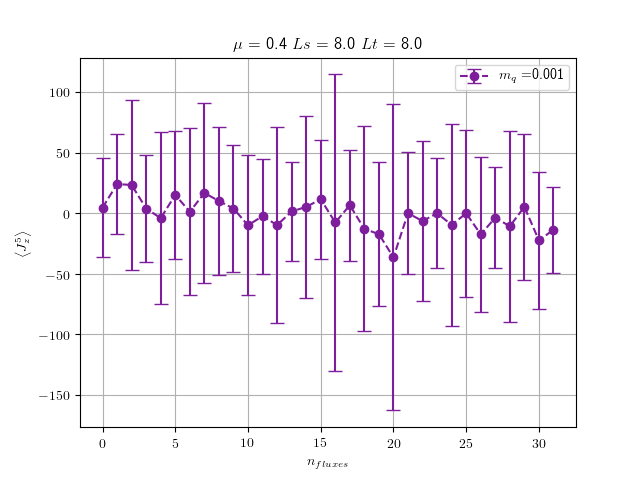
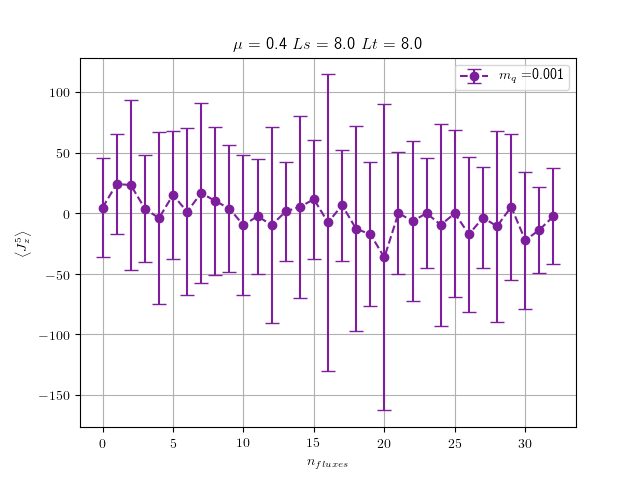
add results

diff --git a/scriptsandconstants/sigleAxialCurrentPlot.py b/scriptsandconstants/sigleAxialCurrentPlot.py
@@ -18,7 +18,7 @@ Ls, Lt, mu, ma, nfluxes, AxialCurrent, AxialCurrentErr = np.loadtxt(path.join(in
 
 ax.errorbar(nfluxes*2, AxialCurrent, yerr=AxialCurrentErr, 
 		fmt='o', label=(r'$z$'), ls='--', marker='o', capsize=5, capthick=1, ecolor=colors[5], color=colors[5])
-l = mlines.Line2D([0,nfluxes[-2]], [0,(nfluxes[-2]) * mu[0] * 3 * Lt[0] / (3.141593 * Lt[0]**2 )], color=colors[5])
+#l = mlines.Line2D([0,nfluxes[-1]*2], [0,(nfluxes[-2]*2) * mu[0] * 3 * Lt[0] / (3.141593 * Lt[0]**2 )], color=colors[5])
 ax.add_line(l)
 plt.ylabel(r'$\left\langle  J^5_{\mu}  \right\rangle$', {'fontsize': 10})
 plt.xlabel(r'$n_{fluxes}$')
